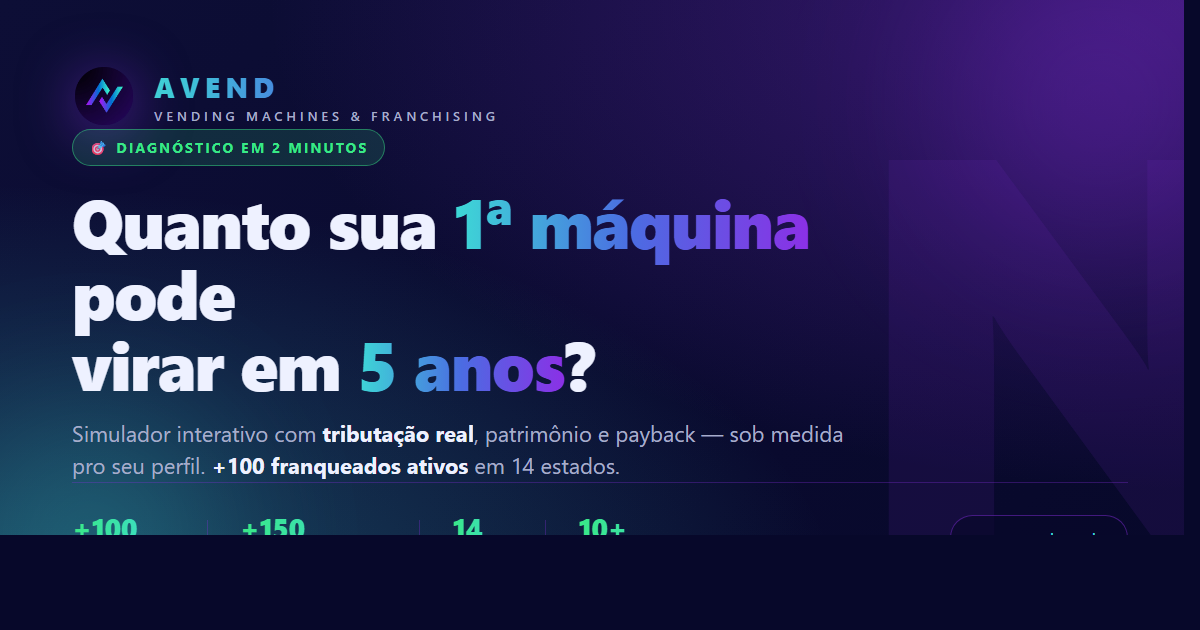
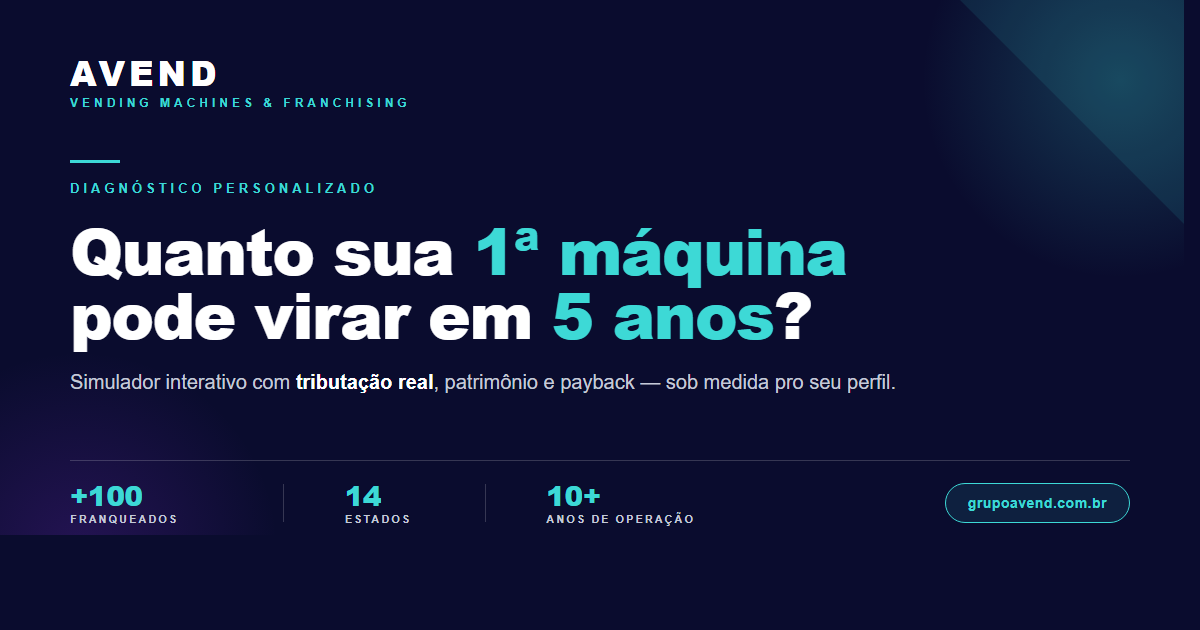
feat(og-image): redesign minimalista do preview de link
Reportado: a imagem que aparece no preview do WhatsApp/LinkedIn ao
compartilhar o link estava "inacabada, feia". O og-image.png antigo
tinha um watermark gigante "N" cortado, gradients pesados, orbs
borrados que renderizavam mal em screenshot.

Redesign completo do og-card.html (template 1200x630):

VISUAL:
- Fundo navy sólido #0a0c2e (sem gradient pesado)
- Triângulo cyan discreto no canto superior direito (opacity 0.10)
  como único acento geométrico — pegada McKinsey/BCG
- Glow circular sutil em cyan e purple nos cantos opostos
- Linha gradient cyan→blue→purple na base (5pt)

CONTEÚDO:
- Header: AVEND grande + tagline "Vending Machines & Franchising"
  com letterspacing wide e cor cyan
- Hero: linha cyan curta + eyebrow "Diagnóstico Personalizado"
- H1 forte (64pt, weight 900) com palavras-chave em cyan:
  "Quanto sua 1ª máquina pode virar em 5 anos?"
- Subtitle conciso (20pt) sem prolixidade
- Footer com 3 stats: +100 Franqueados · 14 Estados · 10+ anos
  · URL pill "grupoavend.com.br" cyan à direita

TÉCNICO:
- HTML simplificado: sem flex no container raiz, layout em block
  com tabela só pro footer (renderiza confiável em Chrome headless)
- Fontes Arial/Helvetica fallback (system-ui falhava em headless)
- Sem position: absolute bottom (bug no Chrome headless quando
  viewport é exatamente 1200x630)
- Comando documentado pra regenerar com Chrome headless

Cache busting:
- og:image, og:image:secure_url, twitter:image: ?v=2
[…]

diff --git a/og-card.html b/og-card.html
@@ -4,246 +4,173 @@
   <meta charset="UTF-8" />
   <title>AVEND OG Card · 1200x630</title>
   <style>
-    /*
-      Esta página renderiza a imagem de Open Graph (1200x630) usada no
-      compartilhamento em WhatsApp/LinkedIn/Facebook/Twitter.
-
-      COMO USAR:
-      1. Abra esta página no Chrome
-      2. F12 → console → digite e rode:
-           document.body.style.overflow='hidden';
-      3. F12 → toggle device toolbar (Ctrl+Shift+M) → defina 1200×630
-      4. Right-click → "Capture screenshot" no DevTools (ou use a aba
-         Sources → Cmd Palette → "Capture full size screenshot")
-      5. Salve o PNG em assets/og-image.png
-
-      Alternativa rápida com puppeteer/playwright:
-      $ npx puppeteer --headless --screenshot=assets/og-image.png \
-                      --window-size=1200,630 og-card.html
-    */
     * { box-sizing: border-box; margin: 0; padding: 0; }
-    html, body {
+    body {
+      margin: 0;
+      padding: 0;
       width: 1200px;
-      height: 630px;
-      overflow: hidden;
-      font-family: "Inter", "Segoe UI", system-ui, -apple-system, sans-serif;
-      background: #07082a;
-      color: #eef1ff;
+      font-family: Arial, Helvetica, sans-serif;
+      background: #0a0c2e;
+      color: #fff;
       -webkit-font-smoothing: antialiased;
     }
     .og {
       position: relative;
       width: 1200px;
       height: 630px;
-      background:
-        radial-gradient(ellipse at top right, rgba(139,48,230,0.40), transparent 55%),
-        radial-gradient(ellipse at bottom left, rgba(61,217,214,0.32), transparent 50%),
-        linear-gradient(135deg, #0d0e36 0%, #07082a 100%);
+      background: #0a0c2e;
       overflow: hidden;
-      padding: 64px 72px;
-      display: flex;
-      flex-direction: column;
-      justify-content: space-between;
     }
-    /* Decoração: orbs translúcidos */
-    .orb {
+    .glow-1 {
+      position: absolute; top: -120px; right: -120px;
+      width: 400px; height: 400px;
+      background: radial-gradient(circle, rgba(61,217,214,0.22), transparent 70%);
+      z-index: 0;
+    }
+    .glow-2 {
+      position: absolute; bottom: -120px; left: -120px;
+      width: 400px; height: 400px;
+      background: radial-gradient(circle, rgba(139,48,230,0.20), transparent 70%);
+      z-index: 0;
+    }
+    .triangle {
+      position: absolute; top: 0; right: 0;
+      width: 0; height: 0;
+      border-style: solid;
+      border-width: 0 240px 240px 0;
+      border-color: transparent #3DD9D6 transparent transparent;
+      opacity: 0.10;
+      z-index: 0;
+    }
+    .bottom-line {
       position: absolute;
-      border-radius: 50%;
-      filter: blur(80px);
-      opacity: 0.35;
-      pointer-events: none;
+      left: 0; right: 0; bottom: 0;
+      height: 5px;
+      background: linear-gradient(90deg, #3DD9D6 0%, #4B6CE2 50%, #8B30E6 100%);
+      z-index: 5;
     }
-    .orb-1 { width: 360px; height: 360px; right: -80px; top: -80px;
-             background: radial-gradient(circle, #8B30E6, transparent); }
-    .orb-2 { width: 300px; height: 300px; left: -60px; bottom: -60px;
-             background: radial-gradient(circle, #3DD9D6, transparent); }
-
-    /* "N" gigante na borda direita, watermark da marca */
-    .watermark {
-      position: absolute;
-      right: -60px;
-      top: 50%;
-      transform: translateY(-50%);
-      font-size: 540px;
-      font-weight: 900;
-      color: rgba(139,48,230,0.10);
-      letter-spacing: -30px;
-      pointer-events: none;
-      line-height: 1;
-      font-family: "Inter", system-ui, sans-serif;
-    }
-
-    .header {
+    .content {
       position: relative;
-      display: flex;
-      align-items: center;
-      gap: 18px;
       z-index: 2;
-    }
-    .logo-mark {
-      width: 64px;
-      height: 64px;
-      flex-shrink: 0;
-      filter: drop-shadow(0 8px 28px rgba(139,48,230,0.55));
-    }
-    .brand {
-      display: flex;
-      flex-direction: column;
-      gap: 2px;
+      padding: 56px 70px;
+      width: 1200px;
+      height: 630px;
     }
     .brand-name {
-      font-size: 28px;
-      font-weight: 800;
-      letter-spacing: 0.18em;
-      background: linear-gradient(90deg, #3DD9D6, #4B6CE2, #8B30E6);
-      -webkit-background-clip: text;
-      background-clip: text;
-      color: transparent;
+      font-size: 34px; font-weight: 900; letter-spacing: 4px;
+      color: #fff; line-height: 1; margin: 0 0 6px;
     }
     .brand-sub {
-      font-size: 13px;
-      font-weight: 600;
-      letter-spacing: 0.30em;
-      text-transform: uppercase;
-      color: #a7adca;
+      font-size: 12px; font-weight: bold; letter-spacing: 4px;
+      text-transform: uppercase; color: #3DD9D6;
+      margin: 0 0 50px;
     }
-
-    .hero {
-      position: relative;
-      z-index: 2;
-      max-width: 880px;
+    .eyebrow-bar {
+      width: 50px; height: 3px; background: #3DD9D6;
+      margin: 0 0 18px;
     }
     .eyebrow {
-      display: inline-block;
-      padding: 8px 16px;
-      background: rgba(57,232,135,0.14);
-      border: 1px solid rgba(57,232,135,0.45);
-      border-radius: 999px;
-      font-size: 14px;
-      font-weight: 700;
-      letter-spacing: 0.15em;
-      text-transform: uppercase;
-      color: #39e887;
-      margin-bottom: 20px;
+      font-size: 13px; font-weight: bold; letter-spacing: 4px;
+      text-transform: uppercase; color: #3DD9D6;
+      margin: 0 0 22px;
     }
     h1 {
-      font-size: 68px;
-      line-height: 1.05;
-      font-weight: 900;
+      font-size: 64px; line-height: 1.0; font-weight: 900;
+      color: #fff; margin: 0 0 22px;
       letter-spacing: -1.5px;
-      color: #eef1ff;
-      margin-bottom: 18px;
     }
     h1 .grad {
-      background: linear-gradient(90deg, #3DD9D6, #4B6CE2, #8B30E6);
-      -webkit-background-clip: text;
-      background-clip: text;
-      color: transparent;
+      color: #3DD9D6;
     }
     .subtitle {
-      font-size: 22px;
-      line-height: 1.45;
-      color: #a7adca;
-      max-width: 800px;
+      font-size: 20px; line-height: 1.4;
+      color: #c5cad8;
+      margin: 0 0 64px;
+      max-width: 1000px;
     }
-    .subtitle strong { color: #eef1ff; font-weight: 700; }
-
-    .footer {
-      position: relative;
-      z-index: 2;
-      display: flex;
-      align-items: center;
-      gap: 32px;
-      padding-top: 26px;
-      border-top: 1px solid rgba(139,48,230,0.30);
+    .subtitle strong { color: #fff; font-weight: bold; }
+    .footer-area {
+      padding-top: 20px;
+      border-top: 1px solid rgba(255,255,255,0.18);
     }
-    .stat {
-      display: flex;
-      flex-direction: column;
-      gap: 4px;
+    .footer-table {
+      width: 100%;
+      border-collapse: collapse;
+    }
+    .footer-table td {
+      vertical-align: middle;
+      padding: 0;
     }
     .stat-val {
-      font-size: 28px;
-      font-weight: 800;
-      letter-spacing: -0.5px;
-      background: linear-gradient(90deg, #39e887, #3DD9D6);
-      -webkit-background-clip: text;
-      background-clip: text;
-      color: transparent;
+      font-size: 28px; font-weight: 900; letter-spacing: -0.5px;
+      color: #3DD9D6; line-height: 1;
     }
     .stat-lbl {
-      font-size: 12px;
-      font-weight: 600;
-      letter-spacing: 0.12em;
-      text-transform: uppercase;
-      color: #a7adca;
+      font-size: 11px; font-weight: bold; letter-spacing: 2px;
+      text-transform: uppercase; color: #c5cad8;
+      margin-top: 4px;
     }
-    .stat-divider {
-      width: 1px;
-      height: 36px;
-      background: rgba(139,48,230,0.30);
+    .divider {
+      width: 1px; height: 38px;
+      background: rgba(255,255,255,0.18);
+      margin: 0 24px;
     }
     .url-pill {
-      margin-left: auto;
-      padding: 12px 20px;
-      background: rgba(7,8,42,0.65);
-      border: 1px solid rgba(139,48,230,0.45);
+      display: inline-block;
+      padding: 11px 22px;
+      background: rgba(61,217,214,0.10);
+      border: 1px solid #3DD9D6;
       border-radius: 999px;
-      font-size: 14px;
-      font-weight: 600;
+      font-size: 14px; font-weight: bold;
       color: #3DD9D6;
-      letter-spacing: 0.05em;
+      letter-spacing: 0.5px;
     }
   </style>
 </head>
 <body>
   <div class="og">
-    <span class="orb orb-1" aria-hidden="true"></span>
-    <span class="orb orb-2" aria-hidden="true"></span>
-    <span class="watermark" aria-hidden="true">N</span>
+    <div class="glow-1"></div>
+    <div class="glow-2"></div>
+    <div class="triangle"></div>
 
-    <header class="header">
-      <img class="logo-mark" src="assets/logo-mark.webp" alt="" />
-      <div class="brand">
-        <span class="brand-name">AVEND</span>
-        <span class="brand-sub">Vending Machines &amp; Franchising</span>
-      </div>
-    </header>
+    <div class="content">
+      <div class="brand-name">AVEND</div>
+      <div class="brand-sub">Vending Machines &amp; Franchising</div>
 
-    <section class="hero">
-      <span class="eyebrow">🎯 Diagnóstico em 2 minutos</span>
-      <h1>
-        Quanto sua <span class="grad">1ª máquina</span> pode<br>
-        virar em <span class="grad">5 anos</span>?
-      </h1>
+      <div class="eyebrow-bar"></div>
+      <div class="eyebrow">Diagnóstico Personalizado</div>
+      <h1>Quanto sua <span class="grad">1ª máquina</span><br>pode virar em <span class="grad">5 anos</span>?</h1>
       <p class="subtitle">
-        Simulador interativo com <strong>tributação real</strong>, patrimônio e payback —
-        sob medida pro seu perfil. <strong>+100 franqueados ativos</strong> em 14 estados.
+        Simulador interativo com <strong>tributação real</strong>, patrimônio
+        e payback &mdash; sob medida pro seu perfil.
       </p>
-    </section>
 
-    <footer class="footer">
-      <div class="stat">
-        <span class="stat-val">+100</span>
-        <span class="stat-lbl">Franqueados</span>
+      <div class="footer-area">
+        <table class="footer-table">
+          <tr>
+            <td>
+              <div class="stat-val">+100</div>
+              <div class="stat-lbl">Franqueados</div>
+            </td>
+            <td><div class="divider"></div></td>
+            <td>
+              <div class="stat-val">14</div>
+              <div class="stat-lbl">Estados</div>
+            </td>
+            <td><div class="divider"></div></td>
+            <td>
+              <div class="stat-val">10+</div>
+              <div class="stat-lbl">Anos de operação</div>
+            </td>
+            <td style="text-align: right;">
+              <span class="url-pill">grupoavend.com.br</span>
+            </td>
+          </tr>
+        </table>
       </div>
-      <span class="stat-divider"></span>
-      <div class="stat">
-        <span class="stat-val">+150</span>
-        <span class="stat-lbl">Máquinas próprias</span>
-      </div>
-      <span class="stat-divider"></span>
-      <div class="stat">
-        <span class="stat-val">14</span>
-        <span class="stat-lbl">Estados</span>
-      </div>
-      <span class="stat-divider"></span>
-      <div class="stat">
-        <span class="stat-val">10+</span>
-        <span class="stat-lbl">Anos de operação</span>
-      </div>
-      <span class="url-pill">grupoavend.com.br</span>
-    </footer>
+    </div>
+
+    <div class="bottom-line"></div>
   </div>
 </body>
 </html>

diff --git a/index.html b/index.html
@@ -18,8 +18,8 @@
   <meta property="og:site_name" content="AVEND · Vending Machines &amp; Franchising" />
   <meta property="og:title" content="Quanto sua 1ª máquina AVEND pode virar em 5 anos?" />
   <meta property="og:description" content="Diagnóstico personalizado em 2 minutos. Veja payback, lucro, patrimônio e tributação real (MEI → Simples → LP) sob medida pro seu perfil. +100 franqueados ativos · 14 estados." />
-  <meta property="og:image" content="https://giovannirinaldipq.github.io/avend-businessplan/assets/og-image.png" />
-  <meta property="og:image:secure_url" content="https://giovannirinaldipq.github.io/avend-businessplan/assets/og-image.png" />
+  <meta property="og:image" content="https://giovannirinaldipq.github.io/avend-businessplan/assets/og-image.png?v=2" />
+  <meta property="og:image:secure_url" content="https://giovannirinaldipq.github.io/avend-businessplan/assets/og-image.png?v=2" />
   <meta property="og:image:width" content="1200" />
   <meta property="og:image:height" content="630" />
   <meta property="og:image:alt" content="AVEND — Simulador interativo de franquia com diagnóstico personalizado" />
@@ -32,7 +32,7 @@
   <meta name="twitter:site" content="@grupoavend" />
   <meta name="twitter:title" content="Quanto sua 1ª máquina AVEND pode virar em 5 anos?" />
   <meta name="twitter:description" content="Diagnóstico personalizado em 2 minutos. Payback, patrimônio e tributação real sob medida pro seu perfil." />
-  <meta name="twitter:image" content="https://giovannirinaldipq.github.io/avend-businessplan/assets/og-image.png" />
+  <meta name="twitter:image" content="https://giovannirinaldipq.github.io/avend-businessplan/assets/og-image.png?v=2" />
   <meta name="twitter:image:alt" content="AVEND — Simulador interativo de franquia" />
 
   <!-- Favicon -->
@@ -1980,8 +1980,8 @@
     </div>
   </div>
 
-  <script src="cities-data.js?v=14"></script>
-  <script src="market-territory.js?v=14"></script>
-  <script src="app.js?v=14"></script>
+  <script src="cities-data.js?v=15"></script>
+  <script src="market-territory.js?v=15"></script>
+  <script src="app.js?v=15"></script>
 </body>
 </html>
